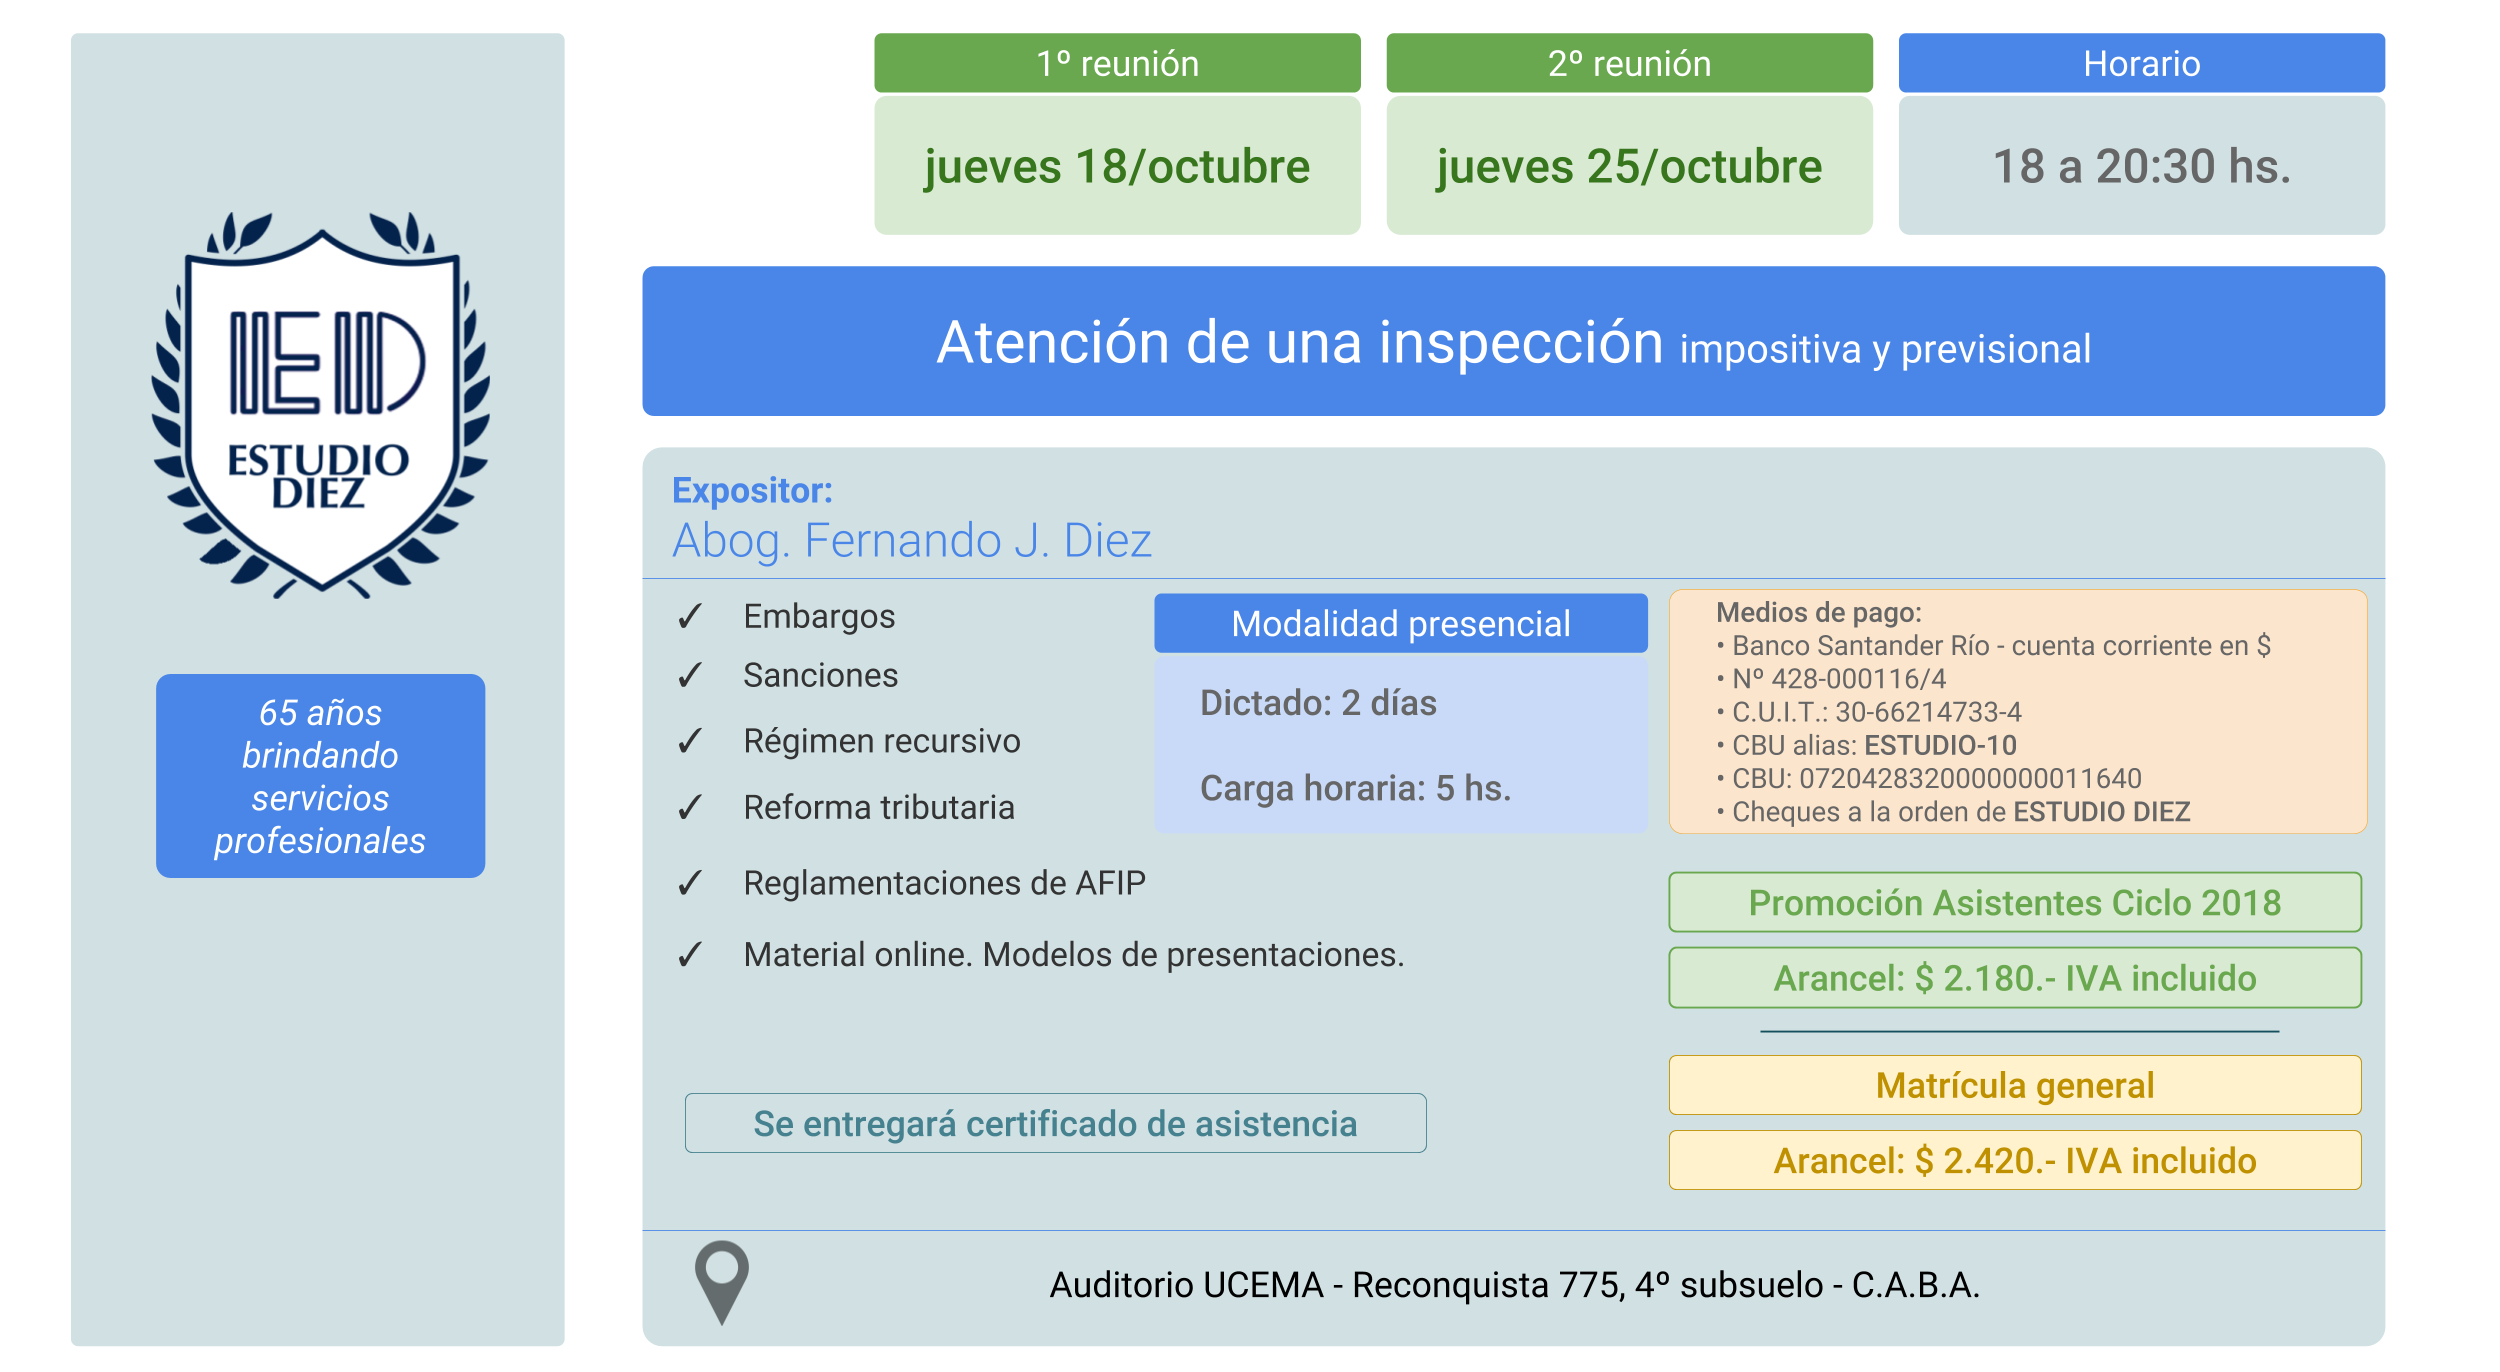
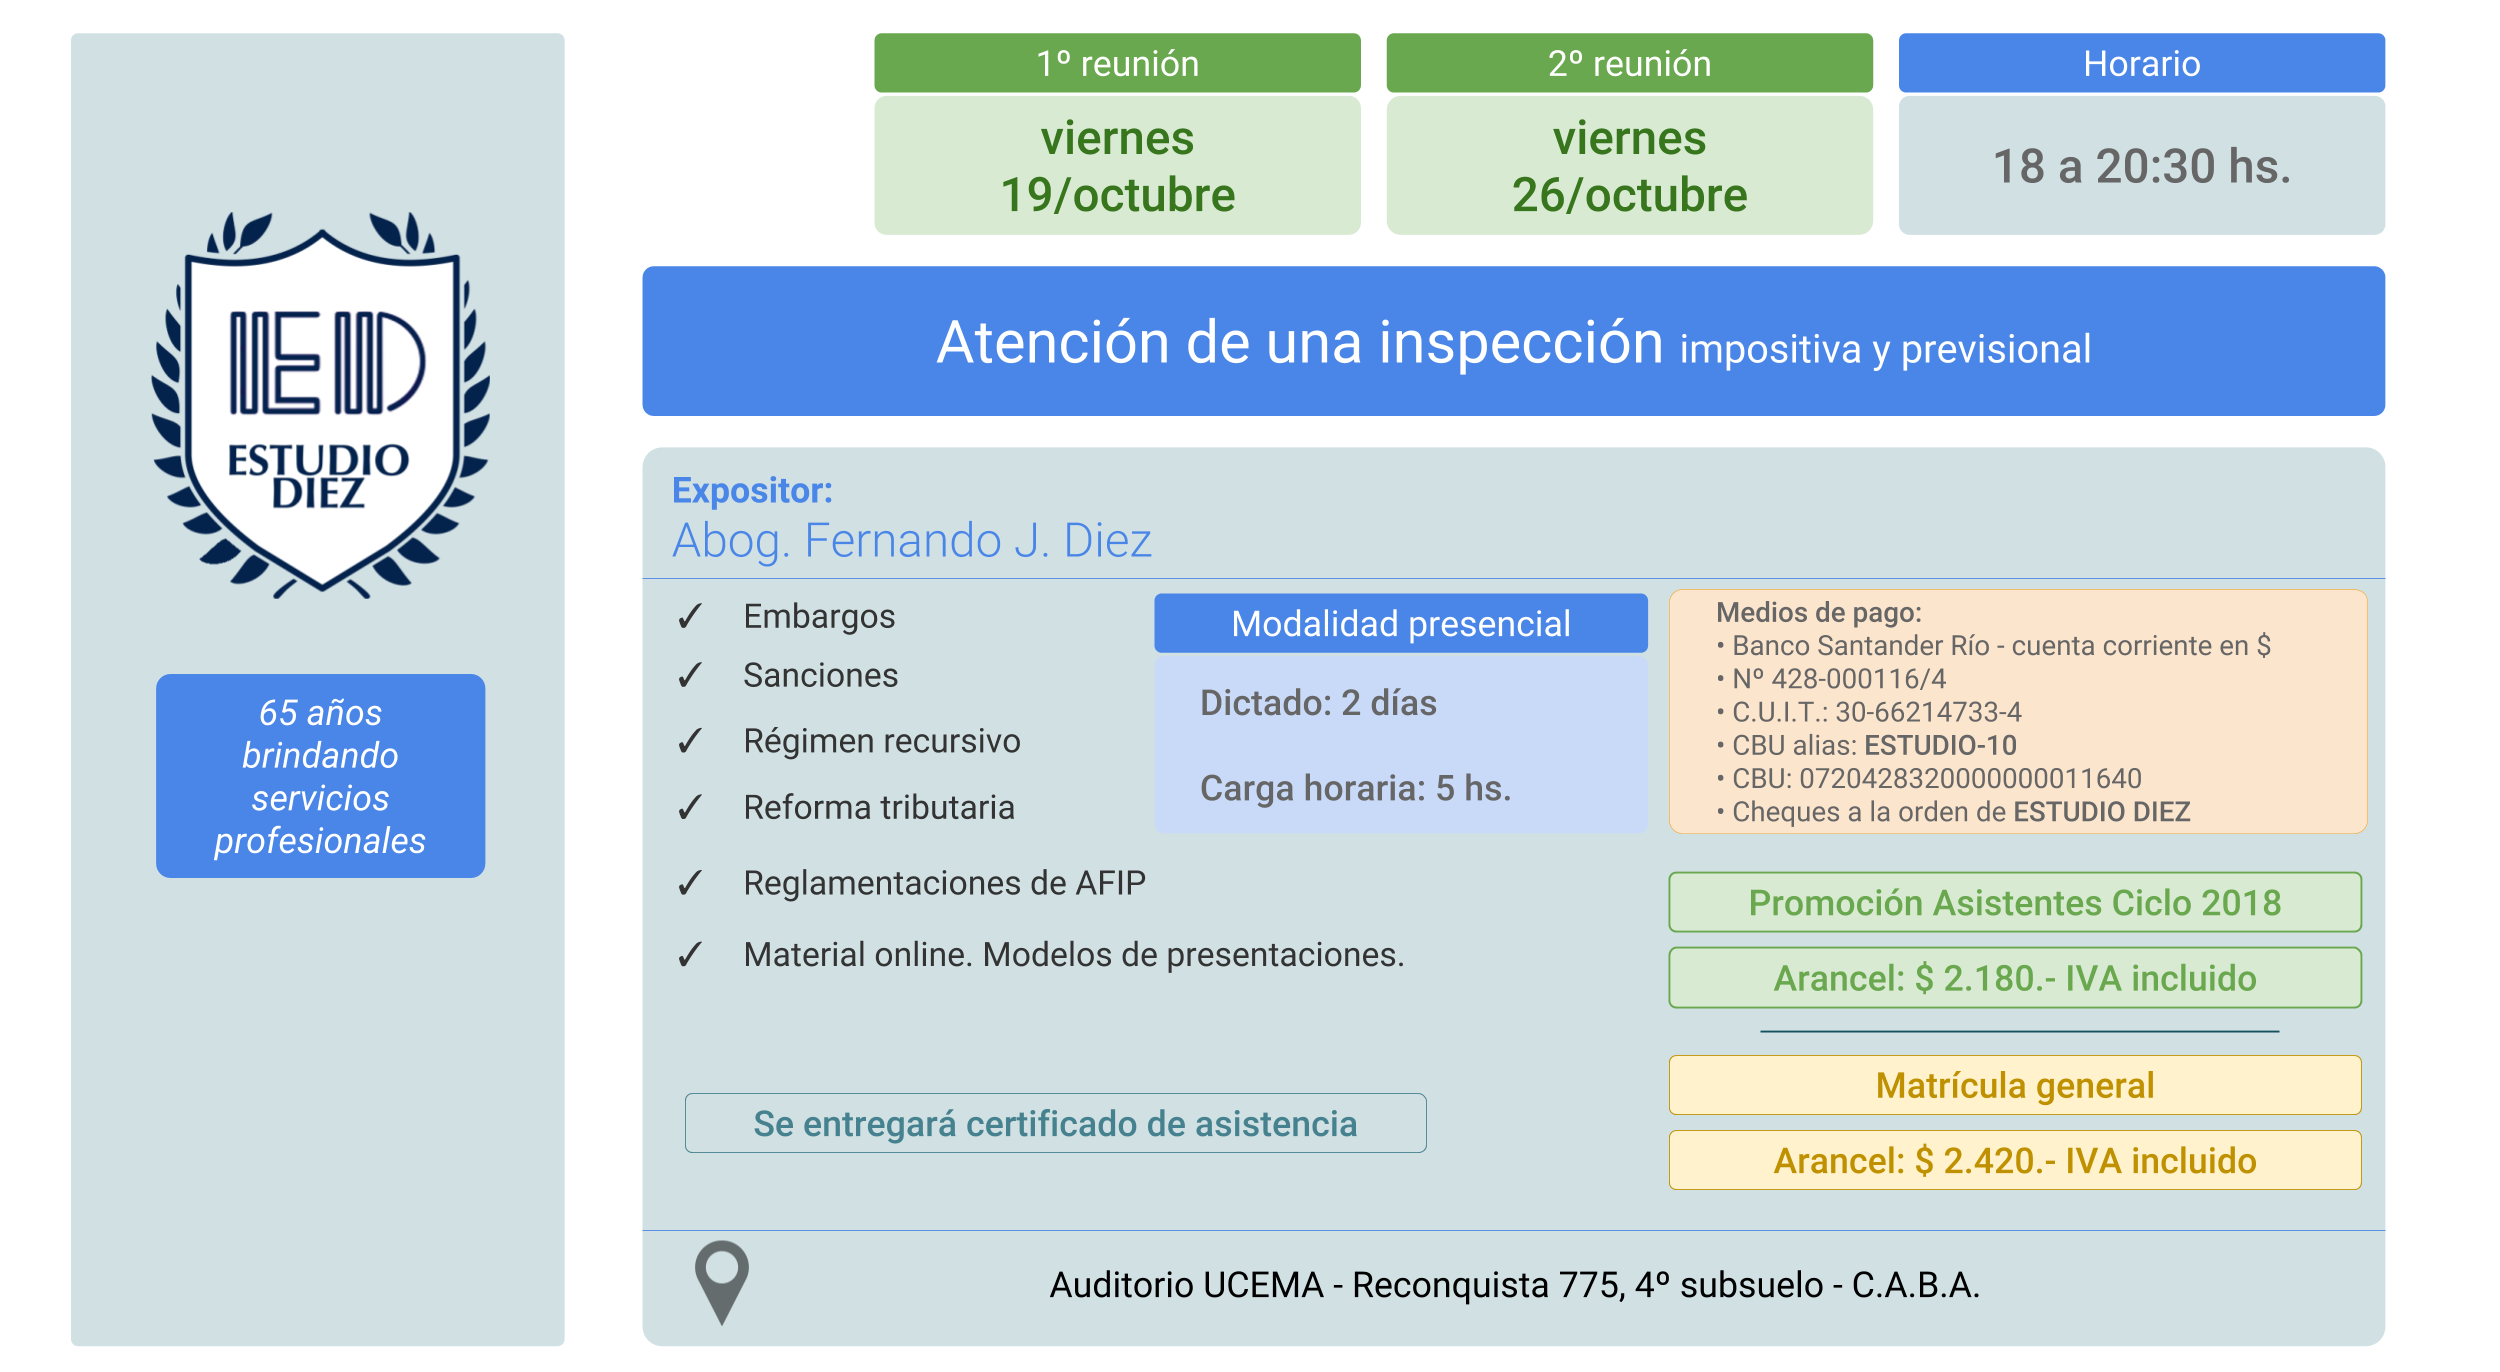
Add files via Github desktop

Changed region(s): [[0.3744, 0.0918, 0.5304, 0.1531], [0.5616, 0.0918, 0.7176, 0.1531]]

diff --git a/atencion-inspeccion.html b/atencion-inspeccion.html
@@ -142,16 +142,16 @@
             <div class="card border-primary mb-3" style="max-width: 18rem;">
               <div class="card-header text-white bg-primary">1º reunión</div>
               <div class="card-body">
-                <h5 class="card-title text-primary">18/octubre/2018</h5>
-                <p class="card-text">Jueves <br><br> Horario: 18 a 20:30 hs.</p>
+                <h5 class="card-title text-primary">19/octubre/2018</h5>
+                <p class="card-text">Viernes <br><br> Horario: 18 a 20:30 hs.</p>
               </div>
             </div>
 
             <div class="card border-success mb-3" style="max-width: 18rem;">
               <div class="card-header text-white bg-success">2º reunión</div>
               <div class="card-body">
-                <h5 class="card-title text-success">25/octubre/2018</h5>
-                  <p class="card-text">Jueves <br><br> Horario: 18 a 20:30 hs.</p>
+                <h5 class="card-title text-success">26/octubre/2018</h5>
+                  <p class="card-text">Viernes <br><br> Horario: 18 a 20:30 hs.</p>
               </div>
             </div>
             </div>

diff --git a/ajuste-inflacion.html b/ajuste-inflacion.html
@@ -151,8 +151,8 @@
             <div class="card border-success mb-3" style="max-width: 18rem;">
               <div class="card-header text-white bg-success">2º reunión</div>
               <div class="card-body">
-                <h5 class="card-title text-success">01/noviembre/2018</h5>
-                  <p class="card-text">Jueves <br><br> Horario: 18 a 20:30 hs.</p>
+                <h5 class="card-title text-success">02/noviembre/2018</h5>
+                  <p class="card-text">Viernes <br><br> Horario: 18 a 20:30 hs.</p>
               </div>
             </div>
             </div>
@@ -188,7 +188,7 @@ La temática abordará la interpretación y aplicación práctica del ajuste por
               <li class="list-group-item"><i class="fa fa-check fa-fw" aria-hidden="true"></i> Promoción: $ 2.880.- (IVA incluido)
               </li>
             </ul>
-            <hr>            
+            <hr>
             <ul class="list-group">
               <li class="list-group-item list-group-item-info">Matrícula general</li>
               <li class="list-group-item">$ 3.200.- (IVA incluido)</li>
